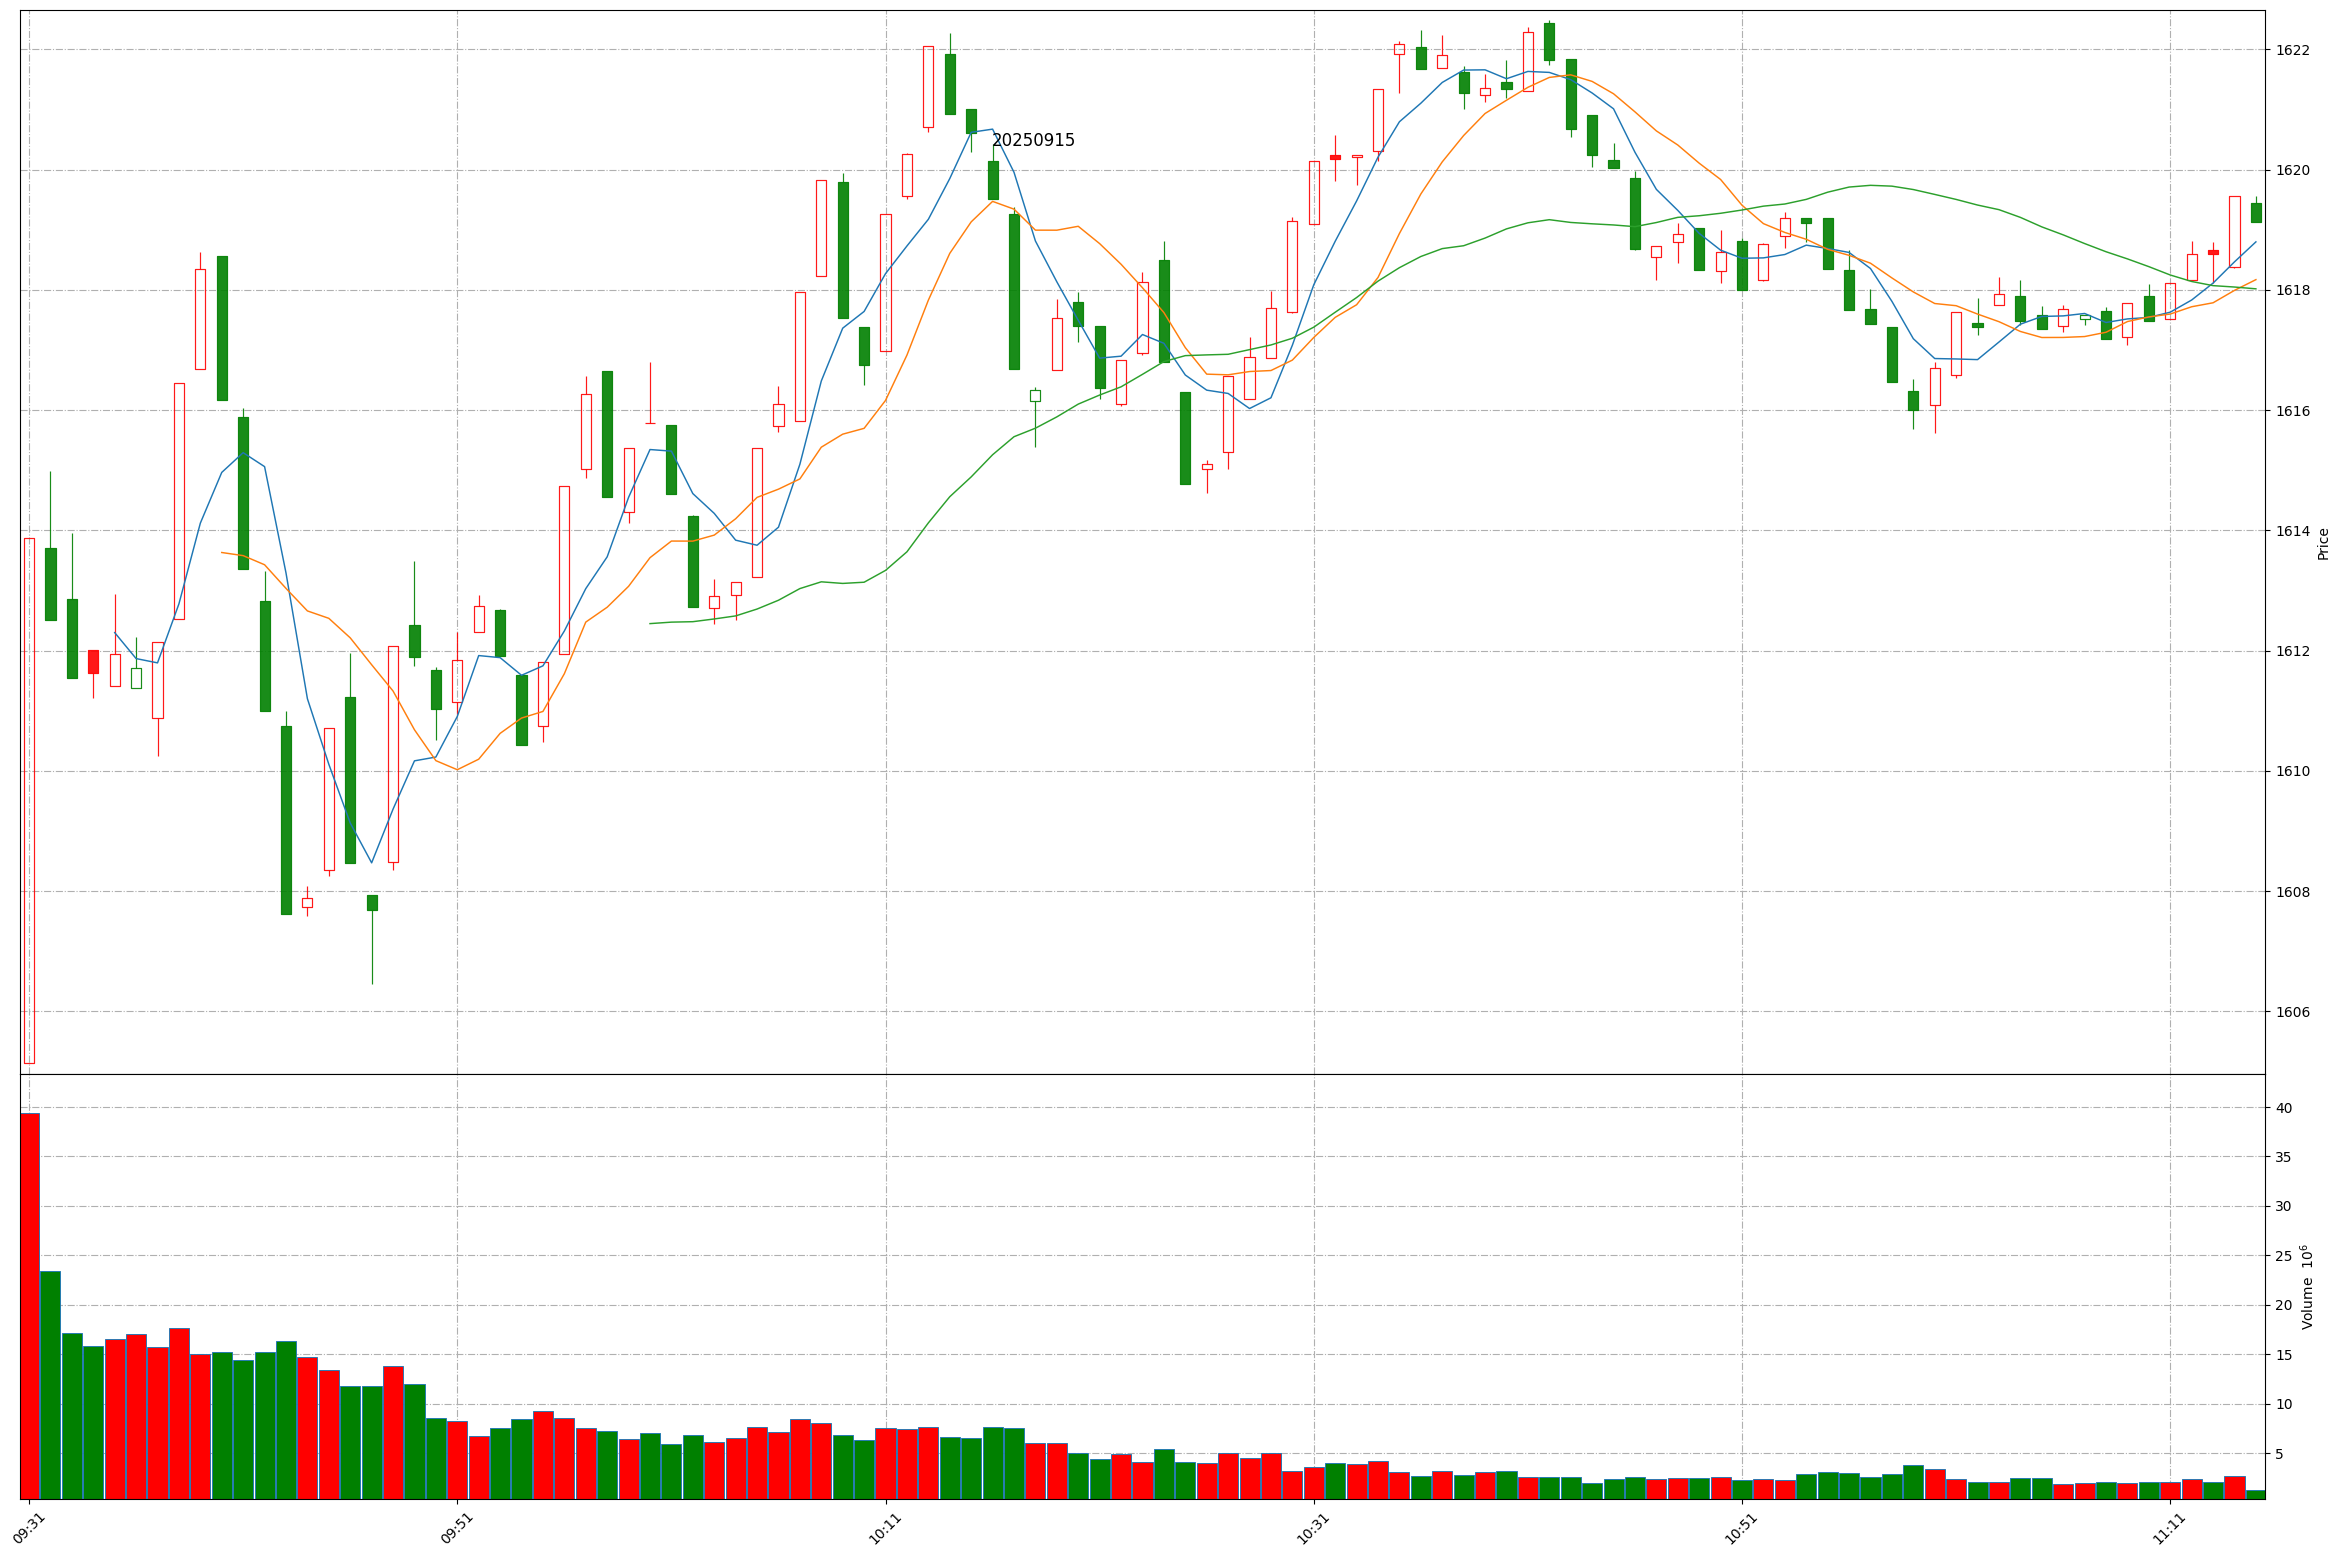
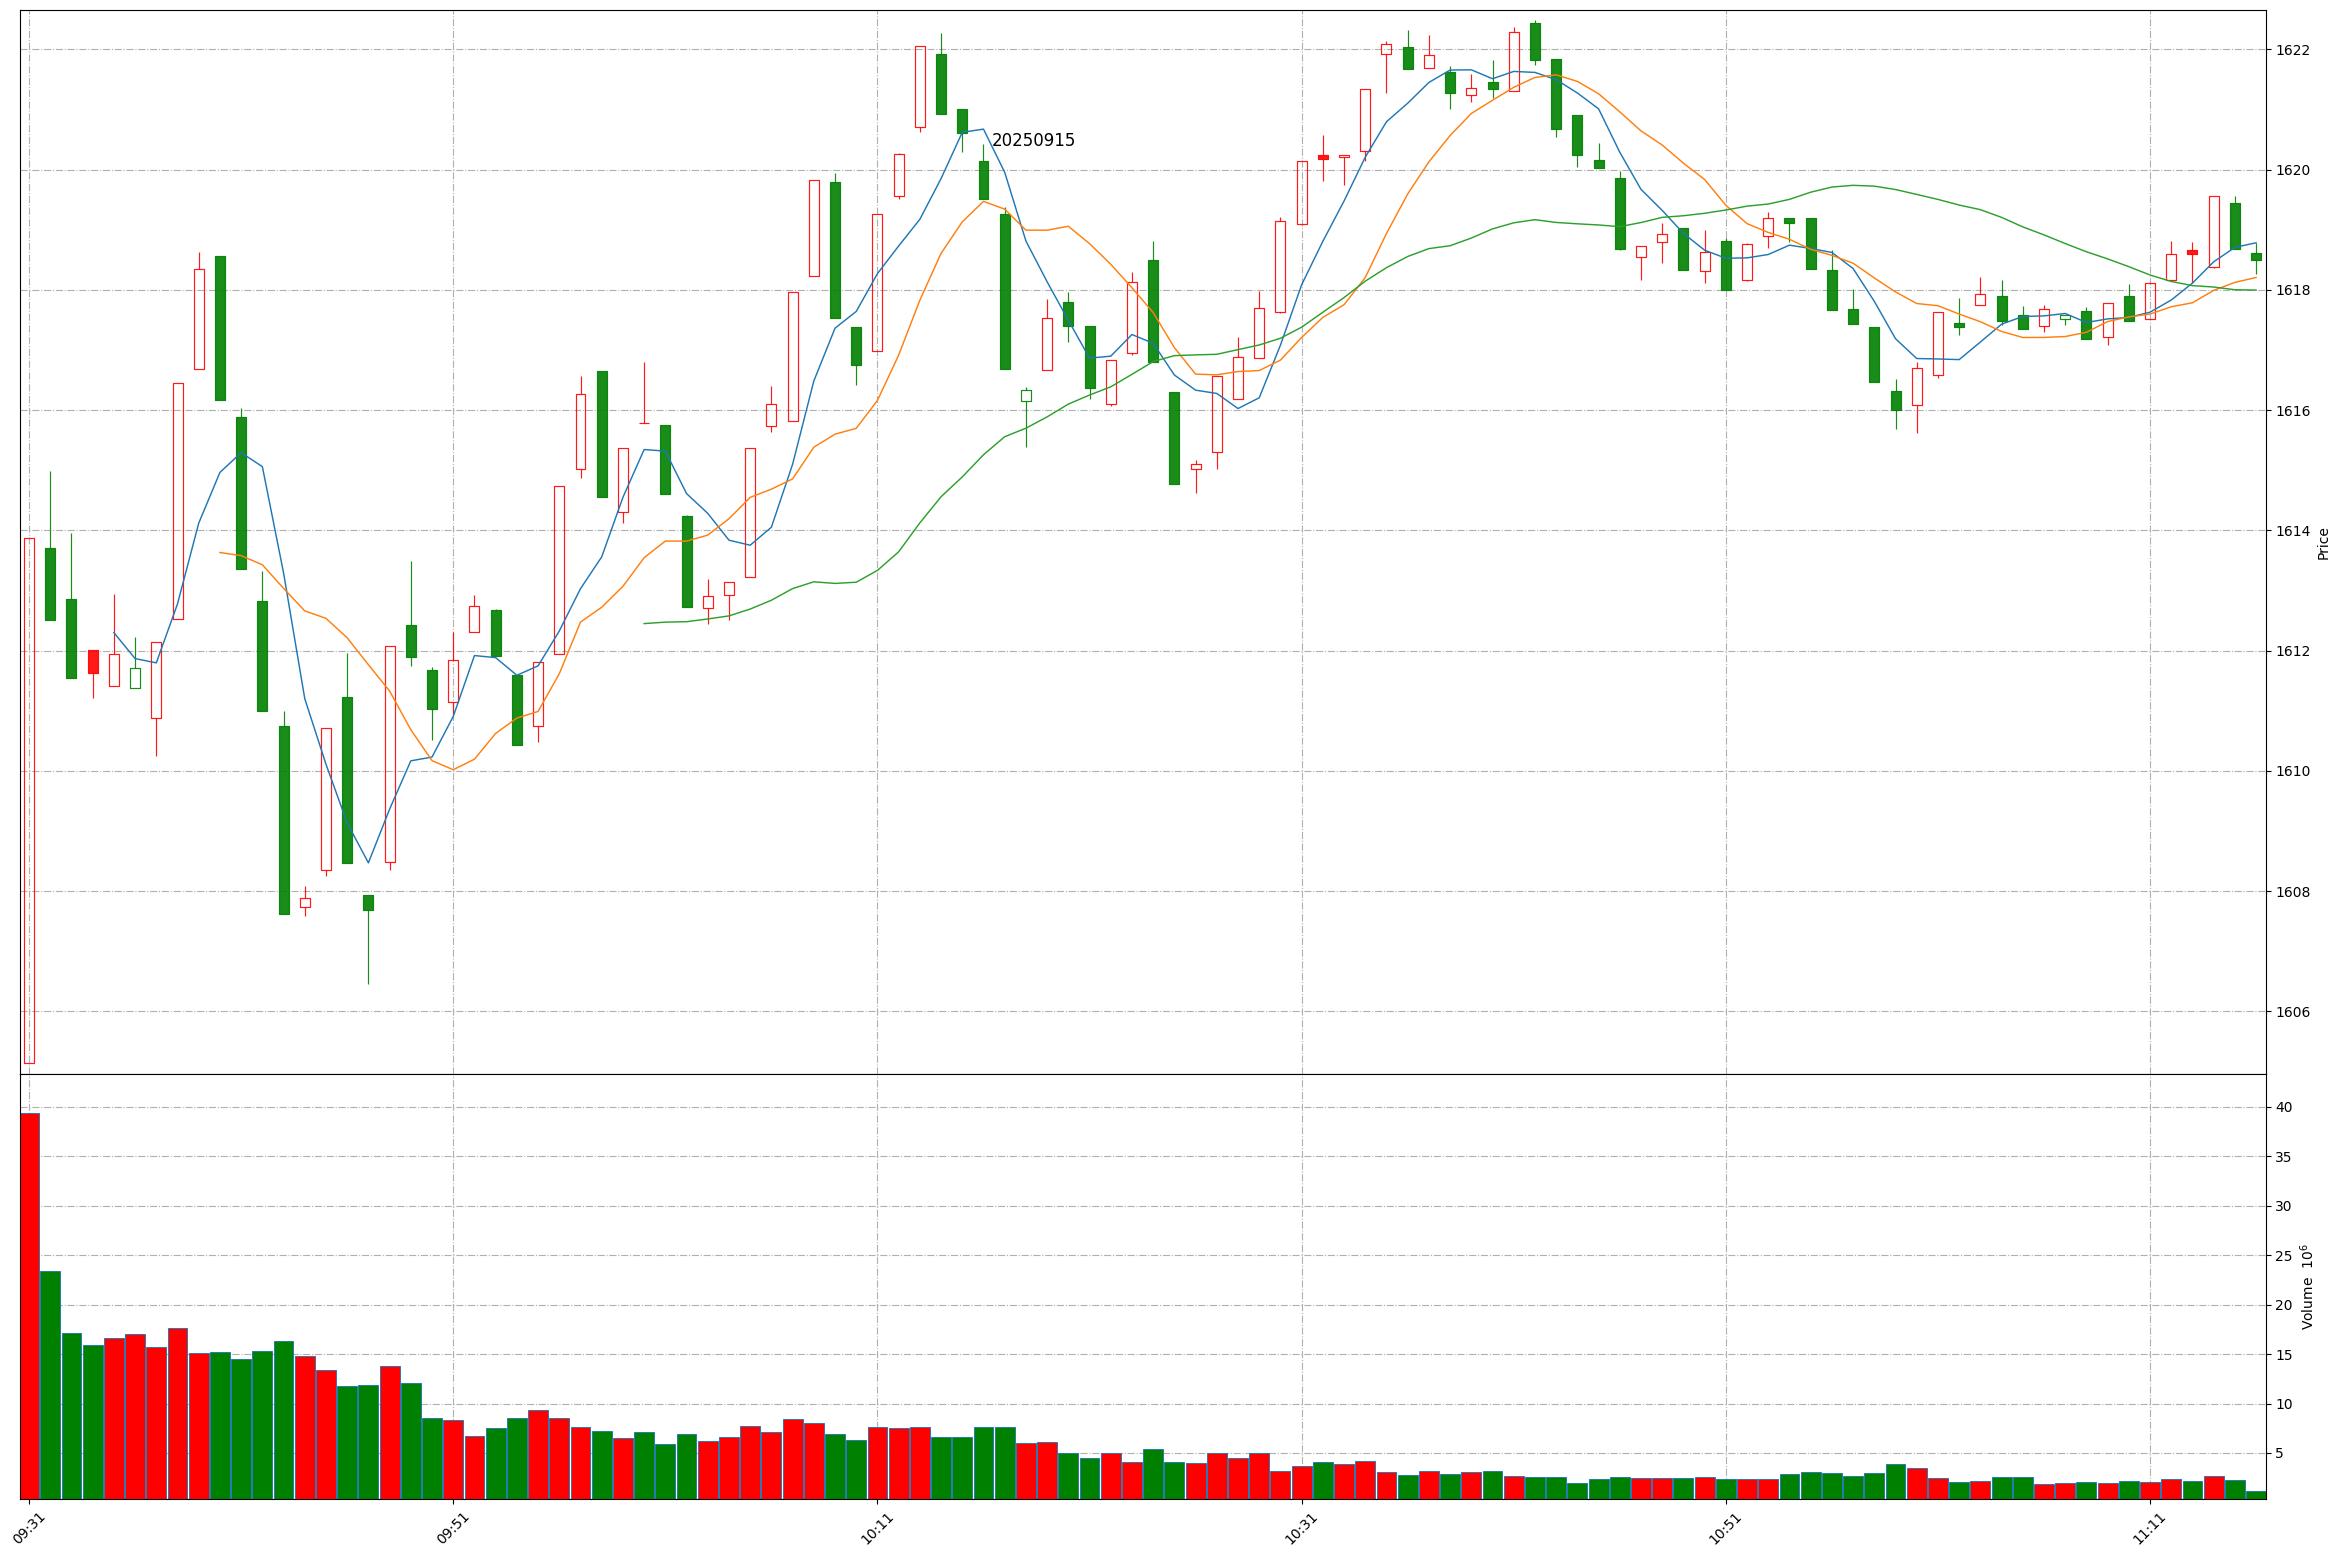
Github action update at 2025-09-15 11:15:51.

diff --git a/README.md b/README.md
@@ -1,11 +1,11 @@
 
 # Daily-A-share-market-quotes 每日 A 股指数（5min 更新）- 20250915
 
-### 上证指数 20250915 11:14
+### 上证指数 20250915 11:15
 ![](./fig/2025/9/20250915-sh000001.png)
 
-### 深证成指 20250915 11:14
+### 深证成指 20250915 11:15
 ![](./fig/2025/9/20250915-sz399001.png)
 
-### 北证50 20250915 11:14
+### 北证50 20250915 11:15
 ![](./fig/2025/9/20250915-bj899050.png)
